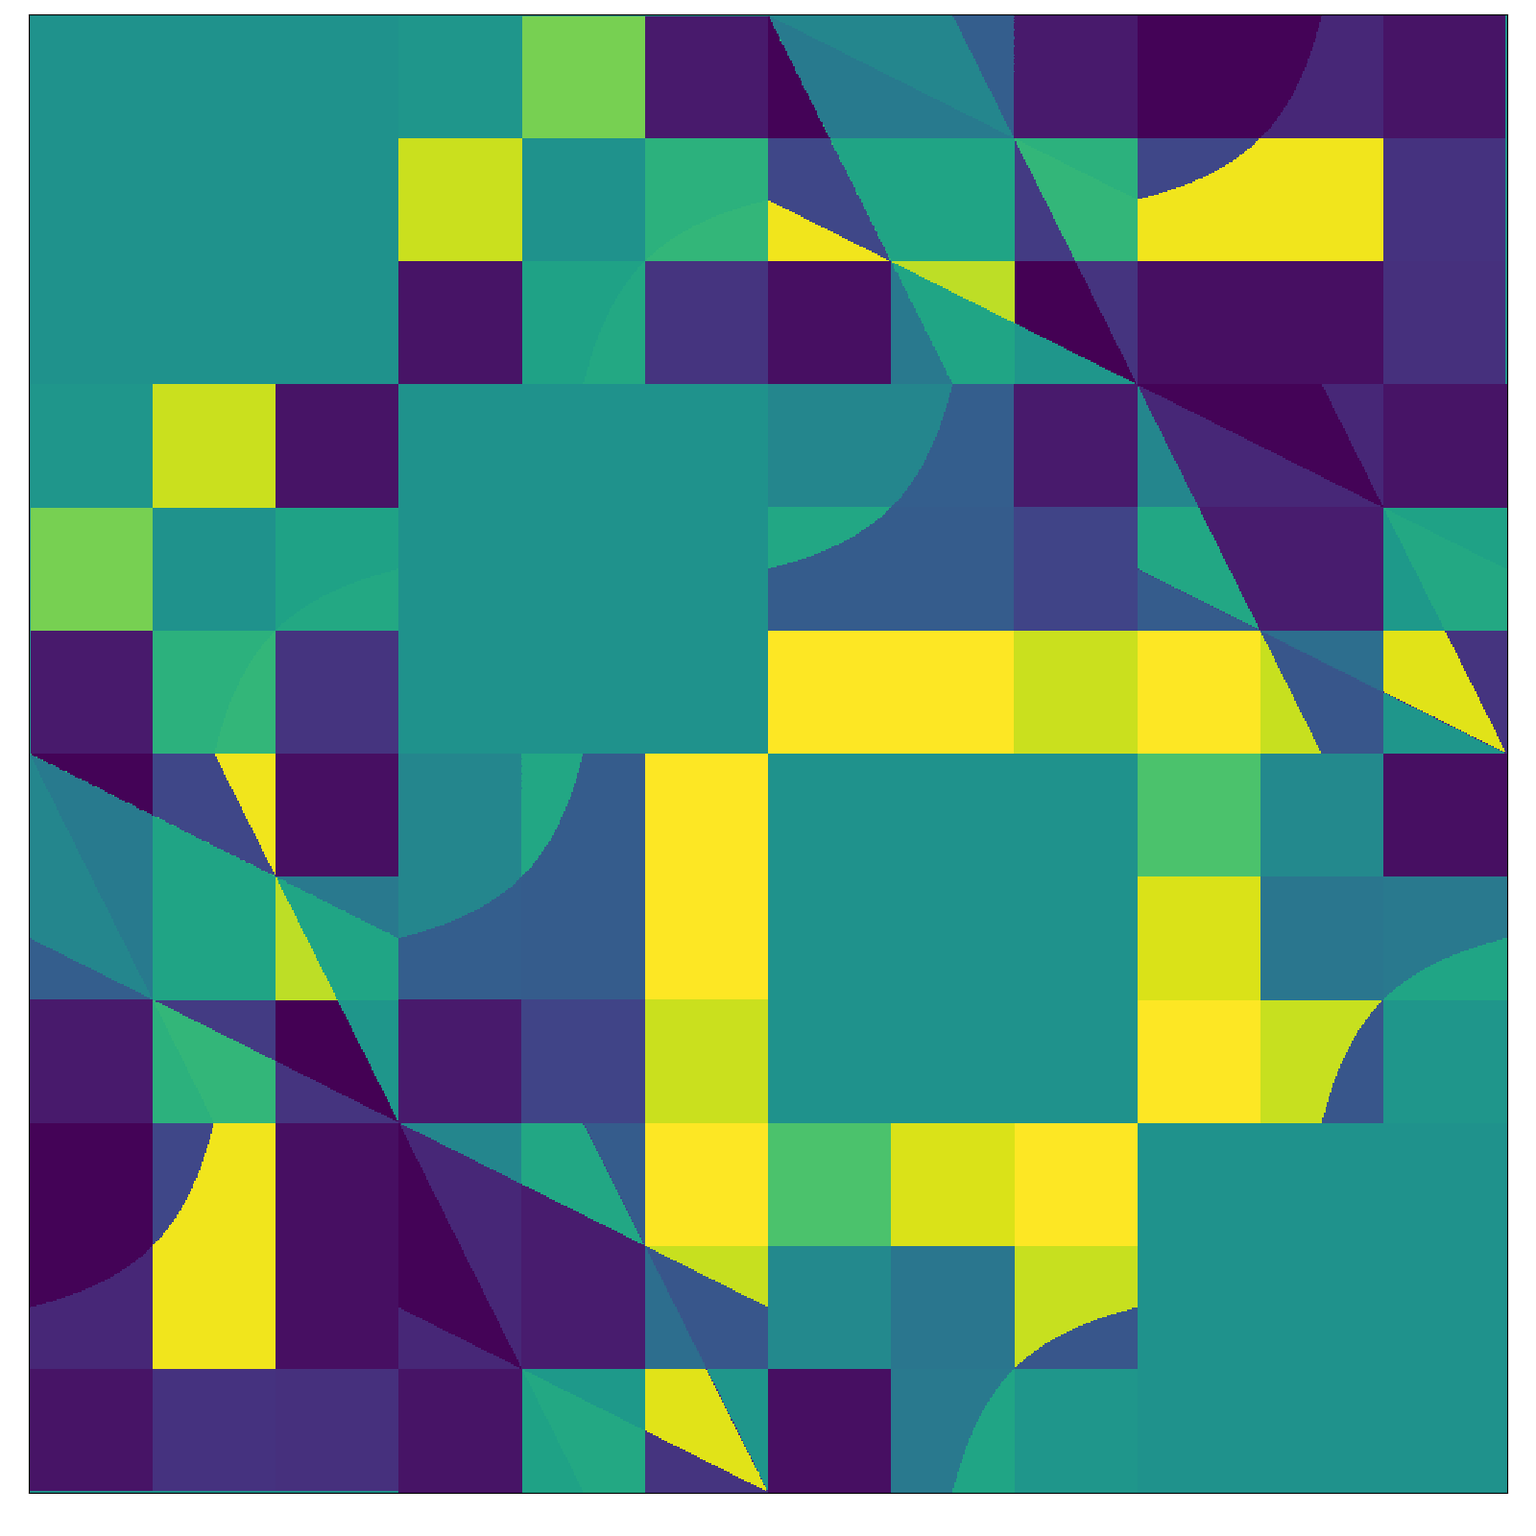
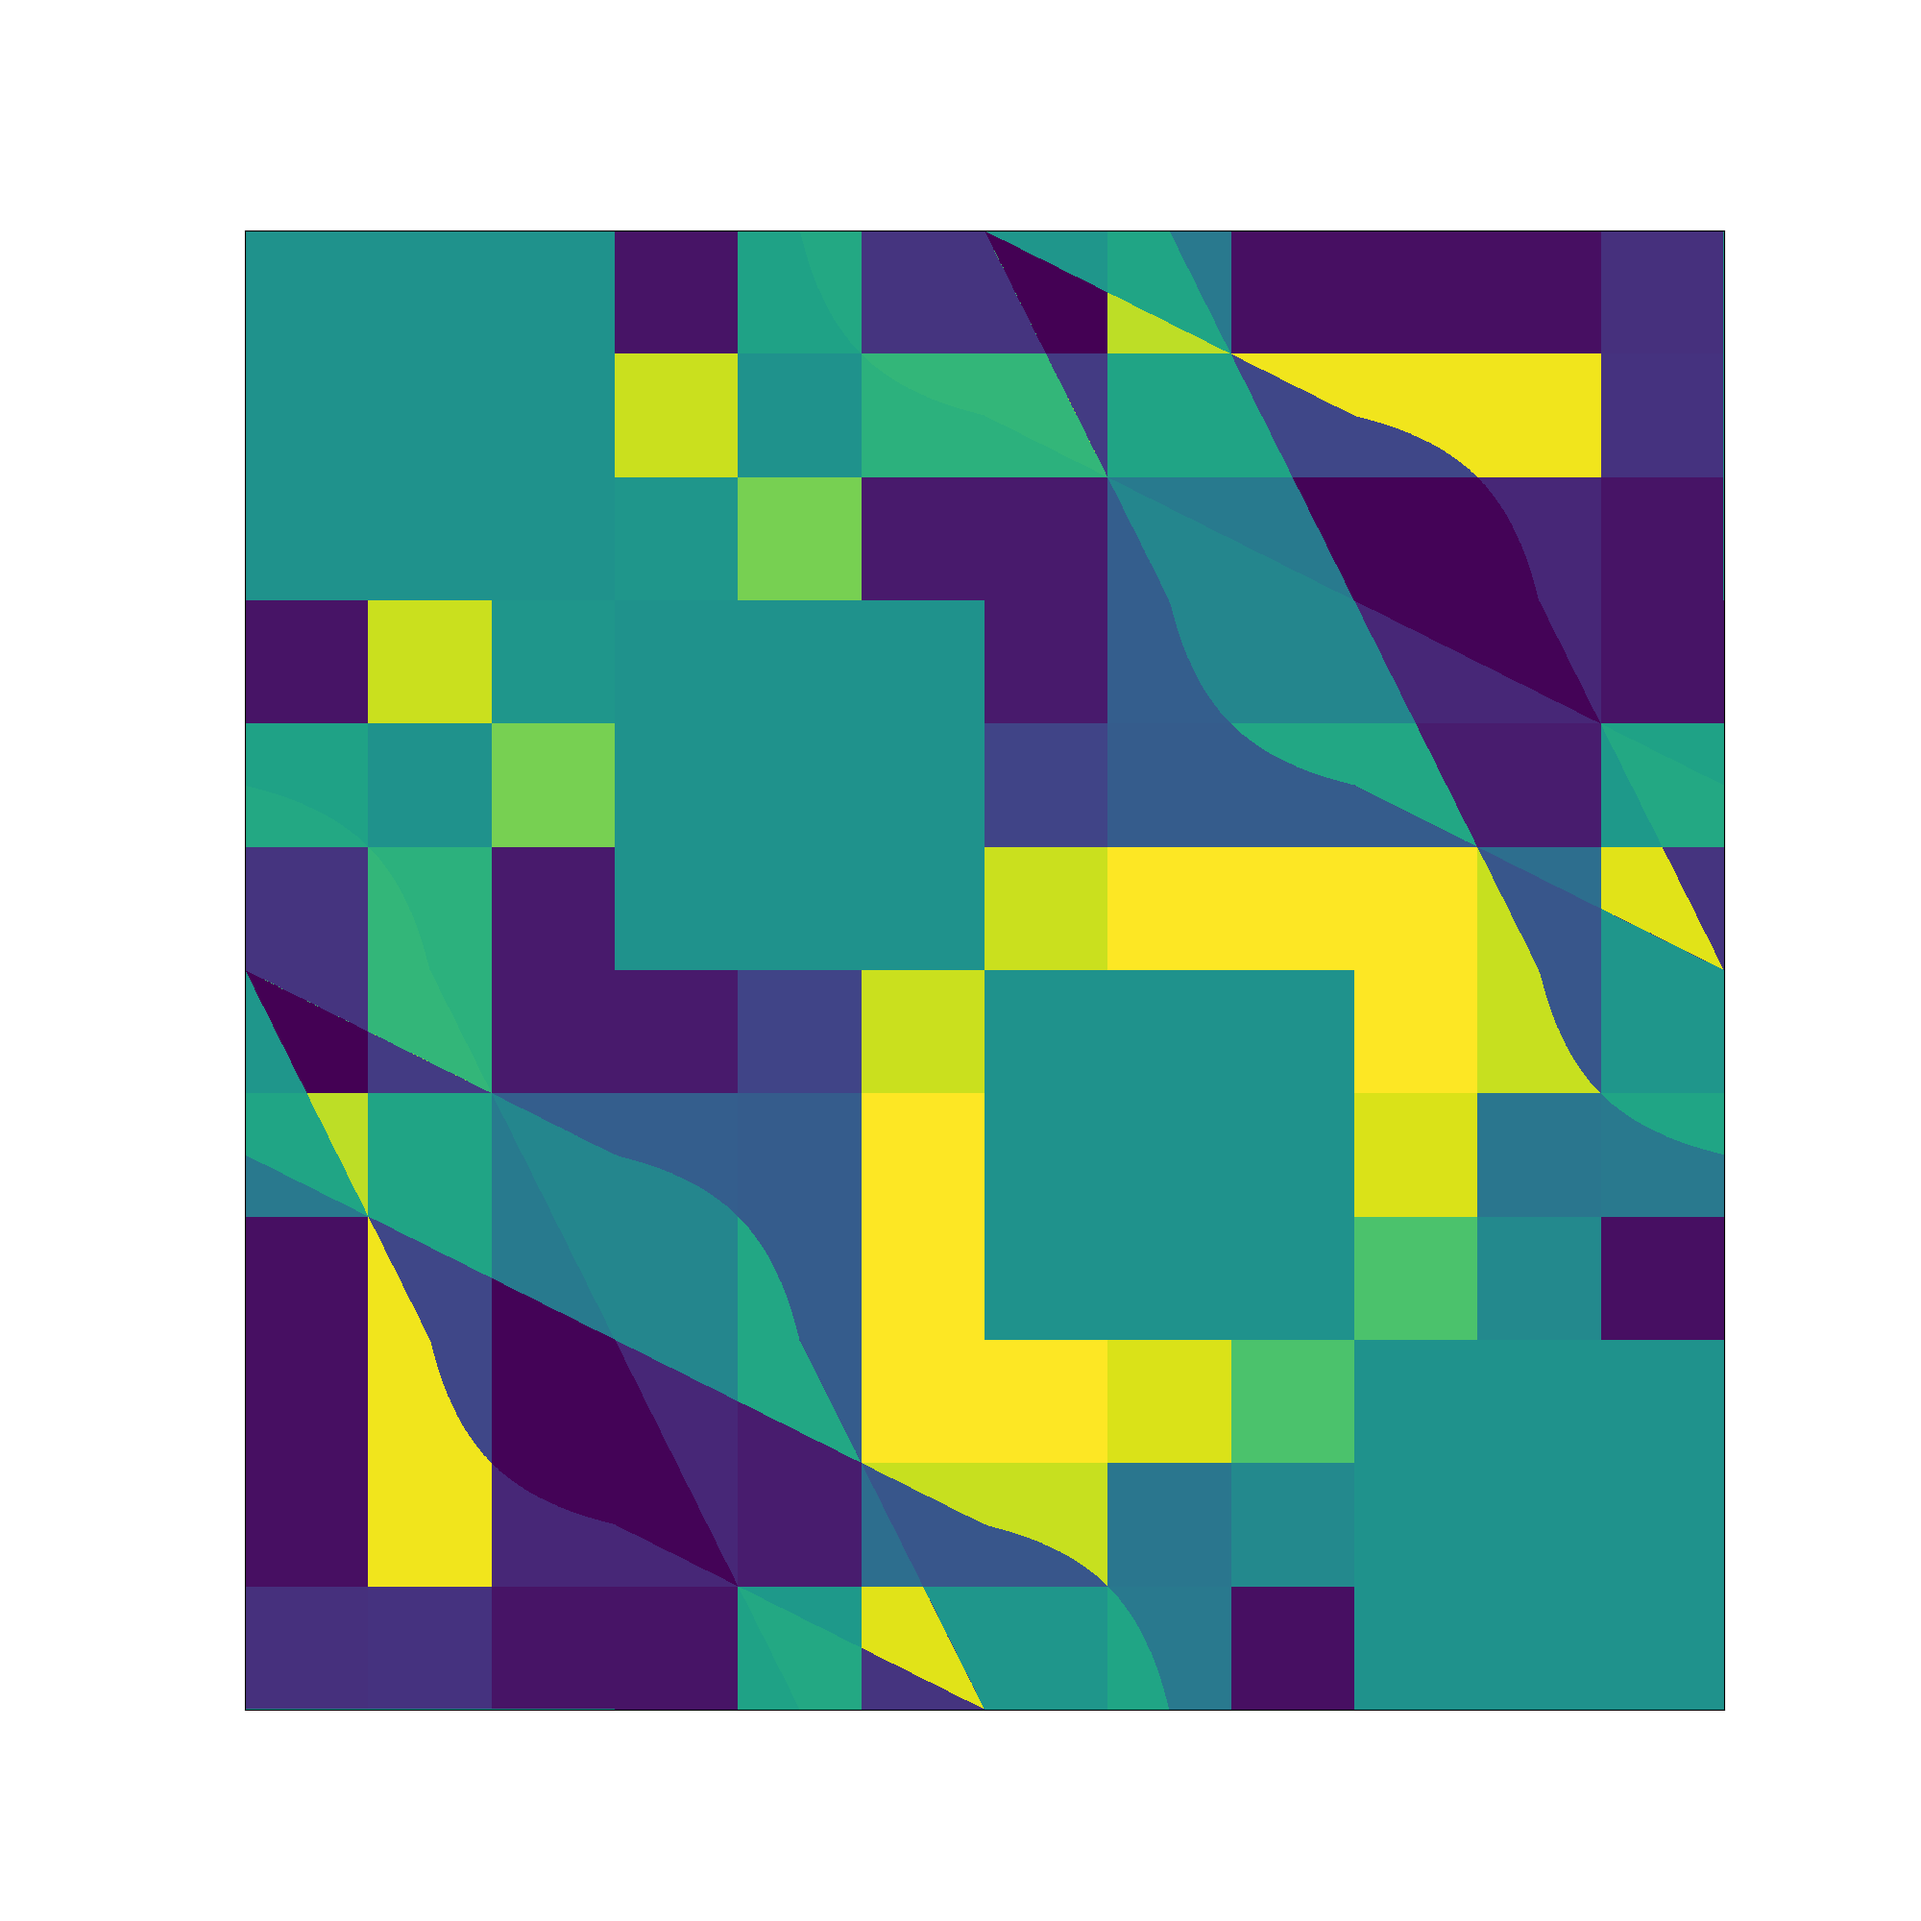
fixed bug in mobius visualization

diff --git a/main.py b/main.py
@@ -359,7 +359,7 @@ def parametrized_point_of_rect_boundary(shape, z_orig):
         x = 0
         y = z
     else:
-        x = z
+        x = n - z
         y = 0
     if center_mirror:
         x = n - x
@@ -373,7 +373,7 @@ def test_parametrized_point():
     zs = np.linspace(0, (n + m) * 2, 500)
     points = [parametrized_point_of_rect_boundary(shape, z) for z in zs]
     points = np.array(points)
-    plt.scatter(points[:, 0], points[:, 1], c=zs)
+    plt.scatter(points[:, 0], points[:, 1], c=zs, s=zs)
     plt.show()
 
 # test_parametrized_point() ; exit()
@@ -428,7 +428,7 @@ def visualize_partition(shape, granularity):
     plt.yticks([])
     plt.savefig("mobius.%d-%d.png" % shape)
 
-# visualize_partition(shape=(5, 5), granularity=1000) ; exit()
+visualize_partition(shape=(5, 5), granularity=3000) ; exit()
 
 
 # do at most samples attempts, but halt prematurely if there's no new find in the last patience attempts.
@@ -484,6 +484,39 @@ def parametrized_collect_lines(shape, granularity):
     return ss
 
 
+# pick endpoint 1 from ((0, 0), (0, n * ratio))
+# pick endpoint 2 from ((n, n), (n * (1-ratio), n)
+def parametrized_collect_diagonal_lines(shape, ratio, granularity=1000):
+    ss = set()
+    n, m = shape
+    assert n == m
+    total_attempts = 0
+    # parametrized_point_of_rect_boundary(shape, z_orig)
+    z1s = np.linspace(0, n * ratio, granularity)
+    z2s = 3 * n + z1s
+    for i1, z1 in enumerate(z1s):
+        for i2, z2 in enumerate(z2s):
+            total_attempts += 1
+            line = parametrized_line(shape, z1, z2)
+            result = slices(line, shape)
+
+            if np.sum(result.astype(int)) >= 1:
+                result_tup = tuple(map(tuple, result))
+                before = len(ss)
+                ss.add(result_tup)
+                if len(ss) > before:
+                    print(pretty(result))
+                    print()
+            if total_attempts % 10000 == 0:
+                print(total_attempts, len(ss))
+    return ss
+
+
+n = int(sys.argv[1])
+shape = n, n
+parametrized_collect_diagonal_lines(shape, ratio=0.5, granularity=10) ; exit()
+
+
 # nr_of_lines=2 (-1, +1)
 # nr_of_lines=3  (-2, 0, 2)
 def create_waist(shape, nr_of_lines):
@@ -520,7 +553,8 @@ def build_set_system(shape, samples, patience, waist=None):
         collected_slices = np.load(f)
         print("took set system from cache %s" % filename)
     except OSError:
-        cs = exact_collect_lines(shape)
+        # cs = exact_collect_lines(shape)
+        cs = parametrized_collect_diagonal_lines(shape, granularity=1000)
         # cs = sampling_collect_lines(shape, samples=samples, patience=patience)
         # cs = parametrized_collect_lines(shape, granularity=1000)
         collected_slices = np.array(list(cs))
